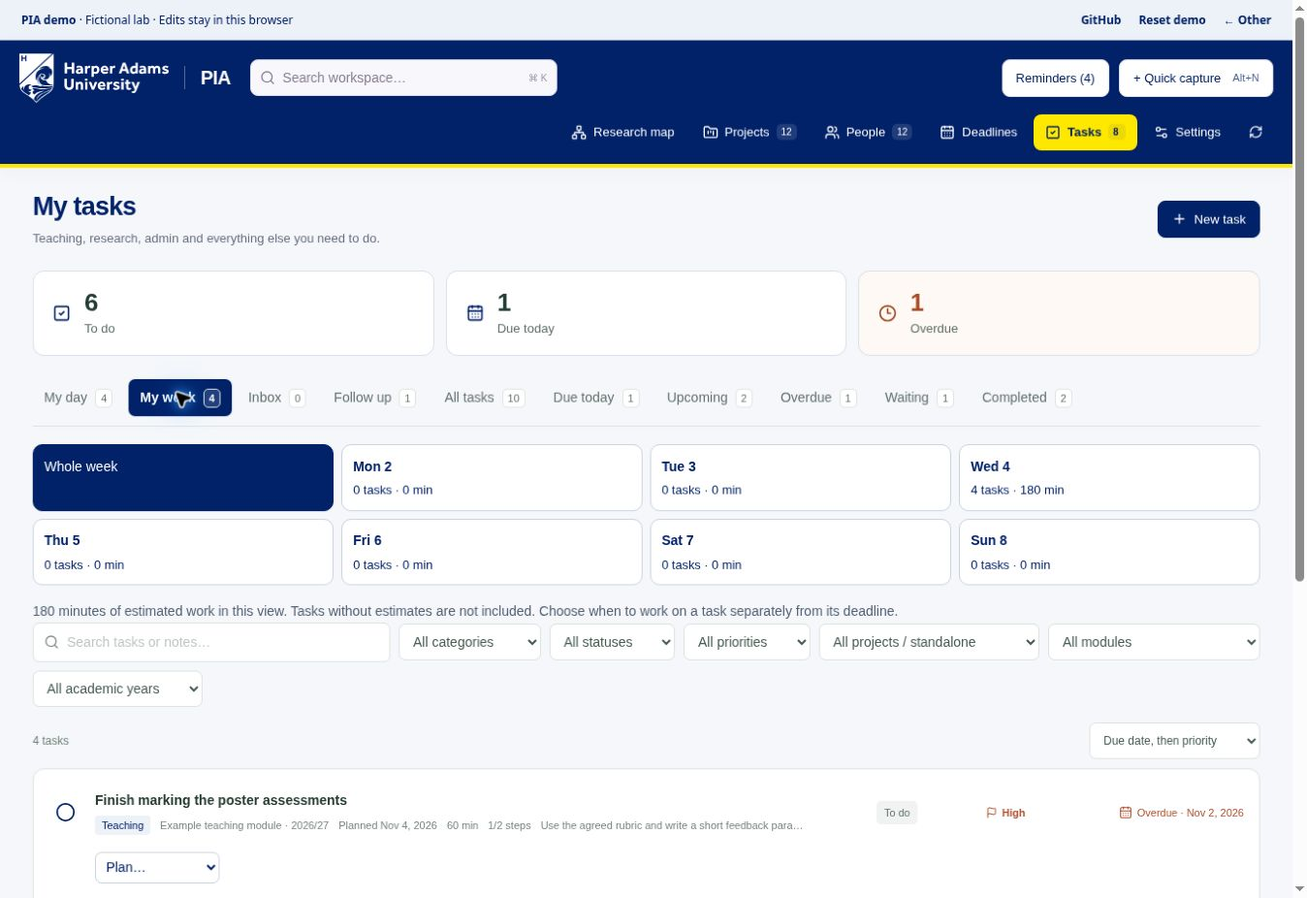
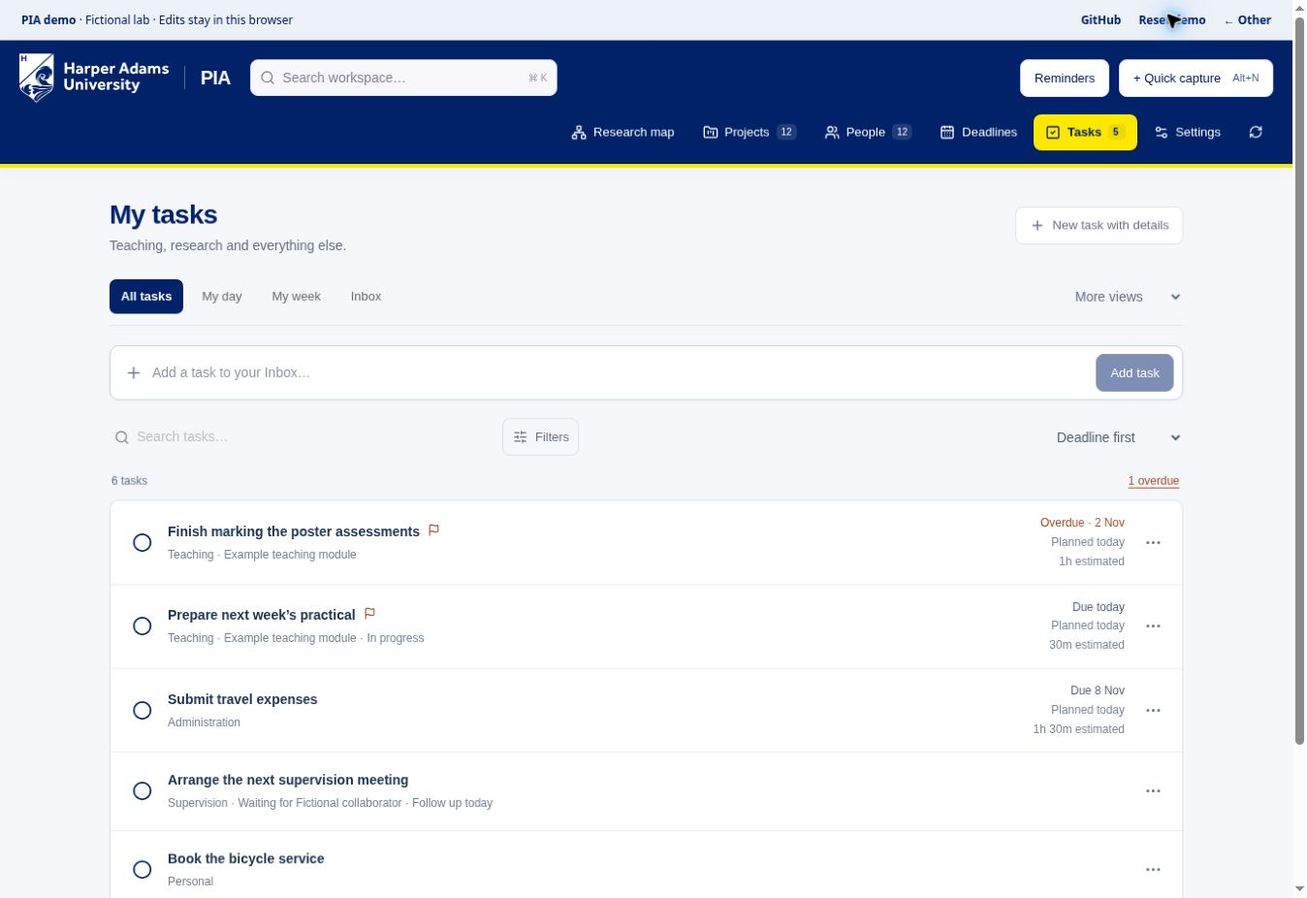
Simplify task view with inline capture and compact task rows

diff --git a/components/lab/TaskWorkspace.tsx b/components/lab/TaskWorkspace.tsx
@@ -1,9 +1,9 @@
 "use client";
 
 import { recordId } from "../../lib/record-id.ts";
-import { useEffect, useRef, useState } from "react";
-import { CalendarDays, Check, CheckSquare2, Circle, Clock3, Flag, FolderKanban, LoaderCircle, Plus, Search } from "lucide-react";
-import { api, formatDate, recordName, type LabRecord, type LabState } from "./model";
+import { useEffect, useRef, useState, type FormEvent } from "react";
+import { Check, CheckSquare2, Circle, Flag, LoaderCircle, MoreHorizontal, Plus, Search, SlidersHorizontal } from "lucide-react";
+import { api, recordName, type LabRecord, type LabState } from "./model";
 import { filterTasks, sortTasks, taskInView, taskToday, TASK_CATEGORIES, TASK_PRIORITIES, TASK_PRIORITY_LABELS, TASK_STATUSES, TASK_STATUS_LABELS, TASK_VIEWS, type TaskView } from "../../lib/tasks";
 import "./tasks.css";
 import { addDays, weekStart } from "../../lib/task-planning";
@@ -12,13 +12,17 @@ export default function TaskWorkspace({ state, open, add, refresh, notify }: {
   state: LabState; open: (record: LabRecord) => void; add: () => void;
   refresh: () => Promise<void>; notify: (message: string) => void;
 }) {
-  const [view, setView] = useState<TaskView>("my_day");
+  const [view, setView] = useState<TaskView>("all");
   const [query, setQuery] = useState(""), [category, setCategory] = useState("");
   const [status, setStatus] = useState(""), [priority, setPriority] = useState("");
   const [project, setProject] = useState(""), [sort, setSort] = useState("due");
   const [module, setModule] = useState(""), [year, setYear] = useState(""), [planDay, setPlanDay] = useState("");
   const [today, setToday] = useState(taskToday), [busy, setBusy] = useState("");
   const [error, setError] = useState("");
+  const [filtersOpen, setFiltersOpen] = useState(false), [newTitle, setNewTitle] = useState("");
+  const workspace = useRef<HTMLElement>(null);
+  const captureInput = useRef<HTMLInputElement>(null);
+  const captureAttempt = useRef<{ title: string; key: string } | null>(null);
   const pending = useRef(false), actionKeys = useRef(new Map<string, string>());
   useEffect(() => {
     const update = () => setToday(taskToday());
@@ -26,11 +30,15 @@ export default function TaskWorkspace({ state, open, add, refresh, notify }: {
     window.addEventListener("focus", update);
     return () => { clearInterval(timer); window.removeEventListener("focus", update); };
   }, []);
+  useEffect(() => { const start = weekStart(today); setPlanDay(day => day && (day < start || day > addDays(start, 6)) ? "" : day); }, [today]);
   const active = state.tasks.filter(task => !task.deleted_at);
   const count = (id: TaskView) => active.filter(task => taskInView(task, id, today)).length;
   const categories = [...new Set([...TASK_CATEGORIES, ...active.map(task => task.data.category || "General")])];
-  const filtered = sortTasks(filterTasks(active, { view, today, query, category, status, priority, project, module, year }), sort).filter(task => view !== "my_week" || !planDay || task.data.planned_date === planDay);
-  const hasFilters = Boolean(query || category || status || priority || project || module || year);
+  const matches = sortTasks(filterTasks(active, { view, today, query, category, status, priority, project, module, year }), sort);
+  const filtered = matches.filter(task => view !== "my_week" || !planDay || task.data.planned_date === planDay);
+  const filterCount = [category, status, priority, project, module, year].filter(Boolean).length;
+  const hasFilters = Boolean(query || filterCount);
+  const primaryViews: TaskView[] = ["all", "my_day", "my_week", "inbox"];
   const reset = () => { setQuery(""); setCategory(""); setStatus(""); setPriority(""); setProject(""); setModule(""); setYear(""); setPlanDay(""); };
   const chooseView = (next: TaskView) => { setView(next); setStatus(""); setPlanDay(""); };
   const toggle = async (task: LabRecord) => {
@@ -55,43 +63,52 @@ export default function TaskWorkspace({ state, open, add, refresh, notify }: {
     if (pending.current) return; pending.current = true; setBusy(task.id); setError("");
     try { await api(`/api/records/${task.id}`, { method: "PATCH", body: JSON.stringify({ data: { ...task.data, planned_date: date || null, inbox: false }, expected_revision: task.revision, idempotency_key: recordId() }) }); await refresh(); notify("Plan updated; the deadline is unchanged."); }
     catch (err) { setError(err instanceof Error ? err.message : "Could not plan this task."); await refresh(); }
-    finally { pending.current = false; setBusy(""); }
+    finally { pending.current = false; setBusy(""); requestAnimationFrame(() => { if (document.activeElement === document.body) workspace.current?.querySelector<HTMLButtonElement>('.pia-task-views button[aria-pressed="true"]')?.focus(); }); }
+  };
+  const capture = async (event: FormEvent) => {
+    event.preventDefault();
+    const title = newTitle.trim();
+    if (!title || pending.current) return;
+    pending.current = true; setBusy("capture"); setError("");
+    if (captureAttempt.current?.title !== title) captureAttempt.current = { title, key: recordId() };
+    try {
+      await api("/api/records", { method: "POST", body: JSON.stringify({ kind: "task", data: { name: title, inbox: true }, idempotency_key: captureAttempt.current.key }) });
+      await refresh(); setNewTitle(""); captureAttempt.current = null;
+      reset(); chooseView("inbox"); notify("Task added to Inbox. Open it whenever you are ready to add details.");
+    } catch (err) { setError(err instanceof Error ? err.message : "Could not add this task."); }
+    finally { pending.current = false; setBusy(""); requestAnimationFrame(() => captureInput.current?.focus()); }
   };
   const minutes = filtered.reduce((sum, task) => sum + (task.data.status === "completed" ? 0 : task.data.estimated_minutes || 0), 0);
-  return <section className="pia-tasks" aria-label="Personal task tracker">
-    <div className="lab-content-heading"><div><h2>My tasks</h2><p>Teaching, research, admin and everything else you need to do.</p></div><button className="lab-button lab-primary" onClick={add}><Plus size={16} />New task</button></div>
-    <div className="pia-task-summary">
-      <button onClick={() => { reset(); chooseView("all"); setStatus("todo"); }}><CheckSquare2 size={19} /><span><strong>{active.filter(task => task.data.status === "todo").length}</strong>To do</span></button>
-      <button onClick={() => { reset(); chooseView("today"); }}><CalendarDays size={19} /><span><strong>{count("today")}</strong>Due today</span></button>
-      <button className={count("overdue") ? "has-overdue" : ""} onClick={() => { reset(); chooseView("overdue"); }}><Clock3 size={19} /><span><strong>{count("overdue")}</strong>Overdue</span></button>
-    </div>
-    <div className="pia-task-views" role="group" aria-label="Task views">{TASK_VIEWS.map(item => <button key={item.id} aria-pressed={view === item.id} onClick={() => chooseView(item.id)}>{item.label}<span>{count(item.id)}</span></button>)}</div>
-    {view === "my_week" && <div className="pia-week-plan" aria-label="Weekly plan"><button aria-pressed={!planDay} onClick={() => setPlanDay("")}>Whole week</button>{Array.from({ length: 7 }, (_, i) => addDays(weekStart(today), i)).map(day => { const tasks = active.filter(t => t.data.status !== "completed" && t.data.planned_date === day); return <button key={day} aria-pressed={planDay === day} onClick={() => setPlanDay(day)}><strong>{new Intl.DateTimeFormat("en-GB", { weekday: "short", day: "numeric", timeZone: "UTC" }).format(new Date(day + "T12:00:00Z"))}</strong><span>{tasks.length} tasks · {tasks.reduce((sum, t) => sum + (t.data.estimated_minutes || 0), 0)} min</span></button>; })}</div>}
-    {(view === "my_day" || view === "my_week") && <p className="pia-plan-caption">{minutes} minutes of estimated work in this view. Tasks without estimates are not included. Choose when to work on a task separately from its deadline.</p>}
-    <div className="pia-task-filters">
-      <label className="pia-task-search"><Search size={16} /><input aria-label="Search tasks" placeholder="Search tasks or notes…" value={query} onChange={e => setQuery(e.target.value)} /></label>
+  const duration = (value: number) => value >= 60 ? `${Math.floor(value / 60)}h${value % 60 ? ` ${value % 60}m` : ""}` : `${value}m`;
+  const dateLabel = (date: string) => date === today ? "today" : date === addDays(today, 1) ? "tomorrow" : new Intl.DateTimeFormat("en-GB", { day: "numeric", month: "short", ...(date.slice(0, 4) !== today.slice(0, 4) ? { year: "numeric" as const } : {}), timeZone: "UTC" }).format(new Date(`${date}T12:00:00Z`));
+  return <section ref={workspace} className="pia-tasks pia-task-list-view" aria-label="Personal task tracker">
+    <header className="pia-tasks-heading"><div><h2>My tasks</h2><p>Teaching, research and everything else.</p></div><button className="lab-button" onClick={add}><Plus size={16} />New task with details</button></header>
+    <nav className="pia-task-views" aria-label="Task views">{primaryViews.map(id => <button key={id} aria-pressed={view === id} onClick={() => chooseView(id)}>{TASK_VIEWS.find(item => item.id === id)!.label}{id === "inbox" && count(id) > 0 && <span>{count(id)}</span>}</button>)}<select aria-label="More task views" className={primaryViews.includes(view) ? "" : "is-selected"} value={primaryViews.includes(view) ? "" : view} onChange={e => chooseView(e.target.value as TaskView)}><option value="" disabled>More views</option>{TASK_VIEWS.filter(item => !primaryViews.includes(item.id)).map(item => <option key={item.id} value={item.id}>{item.label}{count(item.id) ? ` (${count(item.id)})` : ""}</option>)}</select></nav>
+    <form className="pia-task-capture" onSubmit={capture}><Plus size={19} aria-hidden="true" /><input ref={captureInput} aria-label="Quick add task" placeholder="Add a task to your Inbox…" maxLength={240} value={newTitle} disabled={busy === "capture"} onChange={e => setNewTitle(e.target.value)} /><button type="submit" className="lab-button lab-primary" disabled={Boolean(busy) || !newTitle.trim()}>{busy === "capture" ? "Adding…" : "Add task"}</button></form>
+    <div className="pia-task-toolbar"><label className="pia-task-search"><Search size={16} /><input aria-label="Search tasks" placeholder="Search tasks…" value={query} onChange={e => setQuery(e.target.value)} /></label><button className="lab-button pia-filter-toggle" aria-expanded={filtersOpen} aria-controls="pia-task-filters" onClick={() => setFiltersOpen(!filtersOpen)}><SlidersHorizontal size={15} />Filters{filterCount ? ` (${filterCount})` : ""}</button>{hasFilters && <button className="lab-text-button" onClick={reset}>Clear filters</button>}<select aria-label="Sort tasks" value={sort} onChange={e => setSort(e.target.value)}><option value="due">Deadline first</option><option value="priority">Priority first</option><option value="updated">Recently updated</option></select></div>
+    {filtersOpen && <div id="pia-task-filters" className="pia-task-filters">
       <select aria-label="Filter tasks by category" value={category} onChange={e => setCategory(e.target.value)}><option value="">All categories</option>{categories.map(value => <option key={value}>{value}</option>)}</select>
       <select aria-label="Filter tasks by status" value={status} onChange={e => setStatus(e.target.value)}><option value="">All statuses</option>{TASK_STATUSES.map(value => <option key={value} value={value}>{TASK_STATUS_LABELS[value]}</option>)}</select>
       <select aria-label="Filter tasks by priority" value={priority} onChange={e => setPriority(e.target.value)}><option value="">All priorities</option>{TASK_PRIORITIES.map(value => <option key={value} value={value}>{TASK_PRIORITY_LABELS[value]}</option>)}</select>
       <select aria-label="Filter tasks by project" value={project} onChange={e => setProject(e.target.value)}><option value="">All projects / standalone</option><option value="unlinked">Standalone tasks</option>{state.projects.map(item => <option value={item.id} key={item.id}>{recordName(item)}</option>)}</select>
       <select aria-label="Filter tasks by module" value={module} onChange={e => setModule(e.target.value)}><option value="">All modules</option>{[...new Set(active.map(t => t.data.module).filter(Boolean))].sort().map(value => <option key={value}>{value}</option>)}</select>
       <select aria-label="Filter tasks by academic year" value={year} onChange={e => setYear(e.target.value)}><option value="">All academic years</option>{[...new Set(active.map(t => t.data.academic_year).filter(Boolean))].sort().map(value => <option key={value}>{value}</option>)}</select>
-    </div>
-    <div className="pia-task-list-heading"><span>{filtered.length} {filtered.length === 1 ? "task" : "tasks"}{hasFilters ? " match your filters" : ""}</span><div>{hasFilters && <button className="lab-text-button" onClick={reset}>Clear filters</button>}<select aria-label="Sort tasks" value={sort} onChange={e => setSort(e.target.value)}><option value="due">Due date, then priority</option><option value="priority">Priority, then due date</option><option value="updated">Recently updated</option></select></div></div>
+    </div>}
+    {view === "my_week" && <div className="pia-week-strip" aria-label="Weekly plan"><button className="pia-whole-week" aria-pressed={!planDay} onClick={() => setPlanDay("")}>Whole week</button><div>{Array.from({ length: 7 }, (_, i) => addDays(weekStart(today), i)).map(day => { const tasks = matches.filter(t => t.data.planned_date === day); return <button key={day} aria-pressed={planDay === day} onClick={() => setPlanDay(day)}><span>{new Intl.DateTimeFormat("en-GB", { weekday: "short", day: "numeric", timeZone: "UTC" }).format(new Date(day + "T12:00:00Z"))}</span><small>{tasks.length ? `${tasks.length} ${tasks.length === 1 ? "task" : "tasks"}` : "—"}</small></button>; })}</div></div>}
+    <div className="pia-task-list-heading"><span>{filtered.length} {filtered.length === 1 ? "task" : "tasks"}{hasFilters ? " matching filters" : ""}{(view === "my_day" || view === "my_week") && minutes > 0 ? ` · ${duration(minutes)} estimated` : ""}</span>{count("overdue") > 0 && view !== "overdue" && <button className="pia-overdue-link" onClick={() => { reset(); chooseView("overdue"); }}>{count("overdue")} overdue</button>}</div>
     {error && <div className="lab-alert lab-alert-error" role="alert">{error}</div>}
     {filtered.length ? <ul className="pia-task-list">{filtered.map(task => {
       const d = task.data, done = d.status === "completed";
       const overdue = !done && Boolean(d.due_date && d.due_date < today);
       const linked = state.projects.find(item => item.id === d.project_id);
+      const context = [d.category && d.category !== "General" ? d.category : "", d.module || (linked ? recordName(linked) : "")].filter(Boolean).join(" · ");
+      const contextDetail = d.status === "waiting" ? `Waiting${d.waiting_for ? ` for ${d.waiting_for}` : ""}${d.follow_up_date ? ` · Follow up ${dateLabel(d.follow_up_date)}` : ""}` : d.status === "in_progress" ? "In progress" : "";
       return <li key={task.id} className={`pia-task-row ${done ? "is-complete" : ""}`}>
         <button className="pia-task-check" disabled={Boolean(busy)} onClick={() => void toggle(task)} aria-label={`${done ? "Reopen" : "Complete"} task: ${recordName(task)}`} aria-pressed={done}>{busy === task.id ? <LoaderCircle size={21} className="lab-spin" /> : done ? <Check size={21} /> : <Circle size={21} />}</button>
-        <button className="pia-task-main" onClick={() => open(task)}><strong>{recordName(task)}</strong><span className="pia-task-meta"><span className="pia-task-category">{d.category || "General"}</span>{d.project_id && <span><FolderKanban size={12} />{linked ? recordName(linked) : "Archived or unavailable project"}</span>}{d.module && <span>{d.module}{d.academic_year ? ` · ${d.academic_year}` : ""}</span>}{d.planned_date && <span>Planned {formatDate(d.planned_date)}</span>}{d.estimated_minutes && <span>{d.estimated_minutes} min</span>}{Boolean(d.checklist?.length) && <span>{d.checklist!.filter(i => i.done).length}/{d.checklist!.length} steps</span>}{d.repeat && <span>Repeats every {d.repeat.interval} {d.repeat.unit}(s)</span>}{d.status === "waiting" && <span>{d.waiting_for || "Waiting"}{d.follow_up_date ? ` · Follow up ${formatDate(d.follow_up_date)}` : ""}</span>}{d.notes && <span className="pia-task-note">{d.notes.replace(/\s+/g, " ").slice(0, 120)}</span>}</span></button>
-        <span className={`pia-task-status status-${d.status || "todo"}`}>{TASK_STATUS_LABELS[d.status || "todo"]}</span>
-        <span className={`pia-task-priority priority-${d.priority || "normal"}`}><Flag size={12} />{TASK_PRIORITY_LABELS[d.priority || "normal"]}</span>
-        <span className={`pia-task-due ${overdue ? "is-overdue" : ""}`}><CalendarDays size={14} />{d.due_date ? `${overdue ? "Overdue · " : ""}${d.due_date === today ? "Today" : formatDate(d.due_date)}` : "No due date"}</span>
-        {!done && <select className="pia-plan-action" aria-label={`Plan task: ${recordName(task)}`} disabled={Boolean(busy)} value="" onChange={e => { void plan(task, e.target.value === "clear" ? "" : e.target.value); }}><option value="">Plan…</option><option value={today}>Today</option><option value={addDays(today, 1)}>Tomorrow</option><option value={addDays(weekStart(today), 7)}>Next Monday</option><option value="clear">Clear plan</option></select>}
+        <button className="pia-task-main" onClick={() => open(task)}><strong>{recordName(task)}{d.priority === "high" && !done && <Flag className="pia-high-priority" size={13} aria-label="High priority" />}</strong>{(context || contextDetail) && <span className="pia-task-context">{context}{context && contextDetail ? " · " : ""}{contextDetail}</span>}</button>
+        <div className="pia-task-timing">{d.due_date && <span className={overdue ? "is-overdue" : ""}>{overdue ? "Overdue · " : "Due "}{dateLabel(d.due_date)}</span>}{d.planned_date && !done && <small>Planned {dateLabel(d.planned_date)}</small>}{d.estimated_minutes && !done && <small>{duration(d.estimated_minutes)} estimated</small>}</div>
+        <details className="pia-row-actions" onKeyDown={e => { if (e.key === "Escape") { e.currentTarget.open = false; e.currentTarget.querySelector("summary")?.focus(); } }} onBlur={e => { if (e.relatedTarget && !e.currentTarget.contains(e.relatedTarget as Node)) e.currentTarget.open = false; }}><summary aria-label={`Actions for ${recordName(task)}`}><MoreHorizontal size={19} /></summary><div className="pia-row-action-menu" onClick={e => { const menu = e.currentTarget.closest("details")!; menu.open = false; menu.querySelector("summary")?.focus(); }}><button onClick={() => open(task)}>Open task details</button>{!done && <><button disabled={Boolean(busy)} onClick={() => void plan(task, today)}>Plan for today</button><button disabled={Boolean(busy)} onClick={() => void plan(task, addDays(today, 1))}>Plan for tomorrow</button><button disabled={Boolean(busy)} onClick={() => void plan(task, addDays(weekStart(today), 7))}>Plan for next Monday</button>{d.planned_date && <button disabled={Boolean(busy)} onClick={() => void plan(task, "")}>Clear planned date</button>}</>}</div></details>
       </li>;
-    })}</ul> : <div className="lab-empty pia-task-empty"><span className="lab-empty-icon"><CheckSquare2 size={27} /></span><h3>{active.length ? "No tasks in this view" : "A place for everything you need to do"}</h3><p>{active.length ? "Choose another view or clear your filters." : "Add a lecture to prepare, marking to finish, or a personal reminder. You only need a title."}</p>{active.length ? <button className="lab-button" onClick={() => { reset(); chooseView("all"); }}>Show all tasks</button> : <button className="lab-button lab-primary" onClick={add}><Plus size={16} />Add your first task</button>}</div>}
-    <p className="pia-task-footnote">Tasks can stand alone or link to a project. Dates use UK time. Completed tasks stay available to reopen.</p>
+    })}</ul> : <div className="lab-empty pia-task-empty"><span className="lab-empty-icon"><CheckSquare2 size={27} /></span><h3>{active.length ? view === "my_day" ? "Nothing planned for today" : "No tasks in this view" : "What would you like to get done?"}</h3><p>{hasFilters ? "Try clearing your filters or searching for something else." : view === "my_day" ? "Choose a task from All tasks and use its actions to plan it for today." : "Capture a task above, or open All tasks to see your work."}</p>{active.length > 0 && <button className="lab-button" onClick={() => { reset(); chooseView("all"); }}>Show all tasks</button>}</div>}
   </section>;
 }

diff --git a/components/lab/tasks.css b/components/lab/tasks.css
@@ -100,3 +100,56 @@
 .pia-restore-preview h4 {margin:0 0 .8rem;}
 .pia-restore-preview dl {display:grid;grid-template-columns:minmax(0,1fr) minmax(0,1fr);gap:.5rem;}
 .pia-restore-preview dd {margin:0;font-weight:600;}
+
+/* A task-first list: quiet controls, short rows and details on demand. */
+.pia-task-list-view{max-width:1120px;padding:4px 0 24px}
+.pia-tasks-heading{display:flex;align-items:center;justify-content:space-between;gap:16px;margin:0 0 24px}
+.pia-tasks-heading h2{font-size:28px;font-weight:650;letter-spacing:-.7px;color:#012169}
+.pia-tasks-heading p{font-size:13px;color:#657087;margin-top:4px}
+.pia-task-list-view .pia-task-views{align-items:center;gap:7px;margin:0 0 20px;padding-bottom:12px;border-color:#e1e6ef}
+.pia-task-list-view .pia-task-views button{font-size:13px;padding:8px 12px}
+.pia-task-views select{border:0;background:transparent;color:#657087;font:inherit;font-size:13px;padding:8px;max-width:165px;margin-left:auto}
+.pia-task-views select.is-selected{color:#012169;background:#e9eef7;border-radius:7px;font-weight:600}
+.pia-task-capture{display:flex;align-items:center;gap:10px;border:1px solid #c7d2e4;background:#fff;border-radius:10px;padding:8px 9px 8px 15px;margin:0 0 18px;box-shadow:0 2px 5px #01216905;color:#6a7992}
+.pia-task-capture:focus-within{border-color:#012169;box-shadow:0 0 0 2px #01216912}
+.pia-task-capture input{border:0;outline:none;background:transparent;min-width:0;flex:1;padding:8px 0;font-size:14px;color:#172b4d}
+.pia-task-toolbar{display:flex;align-items:center;gap:10px;margin-bottom:10px}
+.pia-task-toolbar .pia-task-search{border-color:transparent;background:transparent;max-width:400px;padding-left:4px}
+.pia-task-toolbar .pia-task-search input{background:transparent}
+.pia-task-toolbar>.lab-button{background:transparent;min-height:34px;padding:6px 10px;border-color:#dce2ec}
+.pia-task-toolbar>select{margin-left:auto;border:0;background:transparent;color:#526078;font-size:12px;padding:7px;max-width:160px}
+.pia-task-list-view .pia-task-filters{padding:14px;background:#edf1f7;border:1px solid #dce2ec;border-radius:9px;margin:12px 0;display:grid;grid-template-columns:repeat(3,minmax(0,1fr));gap:9px}
+.pia-task-list-view .pia-task-filters select{width:100%;min-width:0;max-width:none}
+.pia-task-list-view .pia-task-list-heading{margin:14px 2px 9px;color:#657087;font-size:12px}
+.pia-overdue-link{background:transparent;border:0;padding:2px;color:#a45030;font-size:12px;text-decoration:underline;text-underline-offset:3px}
+.pia-task-list-view .pia-task-list{border:1px solid #dce2ec;border-radius:10px;overflow:visible}
+.pia-task-list-view .pia-task-row{position:relative;grid-template-columns:30px minmax(0,1fr) auto 30px;gap:14px;padding:15px 16px;min-height:76px;border-color:#e9edf3}
+.pia-task-list-view .pia-task-row:first-child{border-radius:10px 10px 0 0}
+.pia-task-list-view .pia-task-row:last-child{border-radius:0 0 10px 10px}
+.pia-task-list-view .pia-task-row:hover{background:#f8faff}
+.pia-task-list-view .pia-task-main>strong{font-size:14px;font-weight:550;color:#203554;display:flex;align-items:baseline;gap:8px}
+.pia-task-context{display:block;font-size:12px;color:#738096;line-height:1.5;margin-top:4px;overflow-wrap:anywhere}
+.pia-high-priority{color:#a45030;flex:none}
+.pia-task-timing{display:flex;flex-direction:column;align-items:flex-end;gap:3px;font-size:12px;line-height:1.4;color:#526078;min-width:110px}
+.pia-task-timing small{font-size:11px;color:#7b879b}
+.pia-task-timing .is-overdue{color:#a45030}
+.pia-row-actions{position:relative;justify-self:end}
+.pia-row-actions summary{display:flex;align-items:center;justify-content:center;list-style:none;width:30px;height:34px;border-radius:6px;color:#6d7b91;cursor:pointer}
+.pia-row-actions summary::-webkit-details-marker{display:none}
+.pia-row-actions summary:hover,.pia-row-actions[open] summary{background:#e9eef7;color:#012169}
+.pia-row-action-menu{position:absolute;right:0;top:100%;z-index:12;min-width:205px;background:#fff;border:1px solid #dce2ec;border-radius:9px;box-shadow:0 8px 25px #01216920;padding:5px}
+.pia-row-action-menu button{display:block;width:100%;text-align:left;border:0;background:transparent;padding:10px;border-radius:5px;color:#203554;font-size:12px}
+.pia-row-action-menu button:hover,.pia-row-action-menu button:focus-visible{background:#edf1f8}
+.pia-week-strip{display:flex;align-items:stretch;gap:8px;margin:14px 0}
+.pia-week-strip>div{display:grid;grid-template-columns:repeat(7,minmax(0,1fr));gap:5px;flex:1;min-width:0}
+.pia-week-strip button{border:1px solid #dce2ec;border-radius:8px;background:#fff;color:#526078;font-size:12px;padding:9px;display:flex;flex-direction:column;align-items:center;justify-content:center;gap:3px;white-space:nowrap}
+.pia-week-strip button[aria-pressed=true]{background:#012169;color:#fff;border-color:#012169}
+.pia-week-strip small{font-size:10px;opacity:.8}
+@media(max-width:650px){
+ .pia-tasks-heading{margin-bottom:18px;align-items:flex-start}.pia-tasks-heading h2{font-size:25px}.pia-tasks-heading>button{max-width:140px;white-space:normal;font-size:11px}
+ .pia-task-list-view .pia-task-views{gap:2px;margin-bottom:15px}.pia-task-list-view .pia-task-views button{padding:8px 9px;font-size:12px}.pia-task-views select{font-size:12px;max-width:140px}
+ .pia-task-toolbar{flex-wrap:wrap;gap:7px}.pia-task-toolbar .pia-task-search{flex:1 1 180px}.pia-task-toolbar>select{margin-left:0}.pia-task-list-view .pia-task-filters{grid-template-columns:repeat(2,minmax(0,1fr))}
+ .pia-task-list-view .pia-task-row{grid-template-columns:26px minmax(0,1fr) 26px;gap:6px 9px;padding:13px 10px}.pia-task-list-view .pia-task-check{grid-column:1;grid-row:1;align-self:start}.pia-task-list-view .pia-task-main{grid-column:2;grid-row:1}.pia-task-list-view .pia-row-actions{grid-column:3;grid-row:1;align-self:start}.pia-task-timing{grid-column:2;grid-row:2;align-items:flex-start;flex-direction:row;flex-wrap:wrap;gap:4px 10px;min-width:0}.pia-task-timing:empty{display:none}
+ .pia-week-strip{flex-direction:column}.pia-week-strip>.pia-whole-week{align-self:flex-start;padding:6px 10px}.pia-week-strip>div{grid-template-columns:repeat(7, minmax(41px,1fr));overflow:auto}.pia-week-strip button{padding:8px 3px;font-size:11px}
+ .pia-task-capture{padding-left:10px;gap:7px}.pia-task-capture input{font-size:13px}.pia-task-capture>.lab-button{padding:7px 10px;font-size:12px}
+}

diff --git a/docs/personal-tasks.md b/docs/personal-tasks.md
@@ -4,27 +4,27 @@ The **Tasks** tab tracks teaching, research, supervision, administration and per
 
 ## Capture, organise and plan
 
-1. Select **Quick capture** from any section, or press **Alt+N**. Enter a title and select **Add to Inbox**.
-2. Open **Tasks → Inbox** and select the task. Add details when you are ready. **New task** opens the full editor directly.
+1. Type into **Add a task to your Inbox…** in the Tasks view and press Enter or select **Add task**. **Quick capture** and **Alt+N** remain available from every section.
+2. Open **Tasks → Inbox** and select the task. Add details when you are ready. **New task with details** opens the full editor directly.
 3. Set **Plan to work on** to choose a working day. Set **Due date** only if there is a deadline. These dates are independent.
-4. Add an effort estimate in minutes. The list's **Plan…** menu can move work to today, tomorrow or next Monday without changing the deadline. Planning removes the task from Inbox.
+4. Add an effort estimate in minutes. Each task's **…** actions menu can move work to today, tomorrow or next Monday without changing the deadline. Planning removes the task from Inbox.
 5. Select **Save changes**. Tick the task in the list when finished; untick it to reopen it.
 
 | View | What appears |
 | --- | --- |
 | My day | Unfinished tasks planned for today, with estimated minutes. |
-| My week | Tasks planned for the current Monday–Sunday week. Select a day or Whole week; each day shows task and effort totals. |
-| Inbox | Unfinished tasks captured for later organisation. Clear **Keep in Inbox** in the editor, or use **Plan…**, to organise them. |
+| My week | Tasks planned for the current Monday–Sunday week. Select a day or Whole week; day counts follow the active filters; the list shows total estimated effort. |
+| Inbox | Unfinished tasks captured for later organisation. Clear **Keep in Inbox** in the editor, or use its **…** planning actions, to organise them. |
 | Follow up | Waiting tasks whose follow-up date is today or earlier. |
 | Due today / Upcoming / Overdue | Unfinished tasks whose deadlines are today / later / earlier. |
 | Waiting | Tasks with status Waiting, including those without follow-up dates. |
 | Completed / All tasks | Retained history / every active task. Archived tasks are in Settings. |
 
-Search combines with category, status, priority, project, module and academic year filters. Tasks without a planned date remain available in All tasks and other applicable views. Totals exclude missing estimates and describe planned effort, not time measured or available calendar capacity. Date boundaries use UK time, including daylight saving.
+The default **All tasks** view keeps the work visible immediately. **My day**, **My week** and **Inbox** are beside it; use **More views** for follow-ups, deadline views, Waiting and Completed. Select **Filters** for category, status, priority, project, module and academic year. A filter count and **Clear filters** stay visible when the controls are collapsed. Search combines with those filters. Tasks without a planned date remain available in All tasks and other applicable views. Totals exclude missing estimates and describe planned effort, not time measured or available calendar capacity. Date boundaries use UK time, including daylight saving.
 
 ## Teaching templates and checklists
 
-In **New task → Start with a template**, choose practical preparation, teaching preparation, marking or module updates. Edit the suggested checklist to fit your work; these are starting points rather than institutional procedures. Add a **Module**, such as Insect Biology, and an **Academic year**, such as 2026/27. Neither requires a project.
+In **New task with details → Start with a template**, choose practical preparation, teaching preparation, marking or module updates. Edit the suggested checklist to fit your work; these are starting points rather than institutional procedures. Add a **Module**, such as Insect Biology, and an **Academic year**, such as 2026/27. Neither requires a project.
 
 Add, edit, tick or remove checklist items in the editor, then save. **Save as template** saves the task title, category, module, notes, estimated effort and an unchecked copy of its checklist. It does not save the task itself. Your template appears in the new-task menu after saving; dates, academic year and project links are chosen for each new task.
 
@@ -66,6 +66,6 @@ The task schema includes `planned_date`, `estimated_minutes`, `module`, `academi
 
 Automated tests cover planning separately from deadlines, UK date boundaries, recurrence and retries, checklist validation, archive integrity, owner isolation, session/CSRF checks, reminder settings and attachment recovery. Browser checks use fictional records; they do not verify a live Cloudflare account's configuration.
 
-![HAU task planner with fictional records](task-planner-desktop.jpg)
+![Simplified HAU task list with fictional records](task-planner-desktop.jpg)
 
 [Mobile task planner](task-planner-mobile.jpg) · [Mobile task editor](task-editor-mobile.jpg)

diff --git a/README.md b/README.md
@@ -90,7 +90,7 @@ Cloudflare's [dashboard instructions for secrets](https://developers.cloudflare.
 ### 5. Sign in and check the app
 
 1. Open your app's address and sign in using **`OWNER_PASSWORD`**.
-2. Select **Tasks → New task**, enter a fictional example such as “Prepare a teaching session”, choose **Teaching**, and select **Create task**. Leave the project field empty.
+2. Select **Tasks → New task with details**, enter a fictional example such as “Prepare a teaching session”, choose **Teaching**, and select **Create task**. Leave the project field empty.
 3. Refresh the page and confirm that the task remains. Complete or archive it when finished.
 4. In a private/incognito browser window, open your app at `/lab`. It should require sign-in. Opening `/api/records?kind=task` or `/api/export` in that signed-out window should return a sign-in error and no private records.
 
